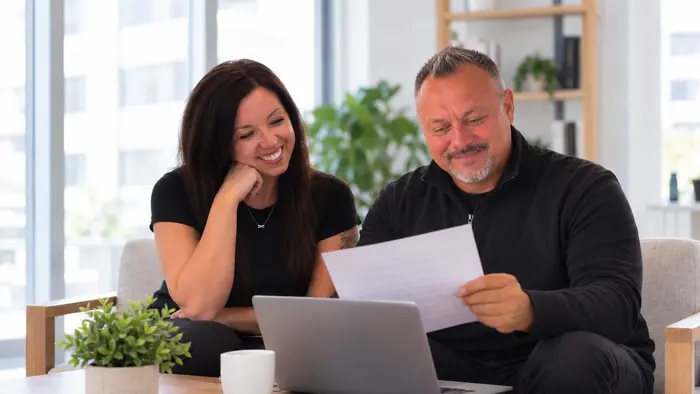
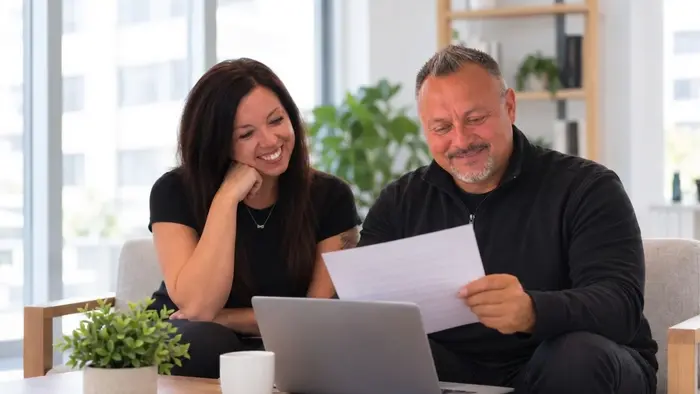
New picture 2, sized to match picture 3
- Replace client meeting photo (16:9, 700/1100/1365px; drop the 1600px files)
- Both feature photos share .feature-photo--narrow: max 788px wide,
  centered, so pictures 2 and 3 render at the same size and ratio
- Bump CSS/JS version to 20261008b and photo version to 20261008d

Claude-Session: https://claude.ai/code/session_01LULKfrfoqBWvdotWMRfoLK

diff --git a/index.html b/index.html
@@ -32,7 +32,7 @@
   <link rel="stylesheet" href="https://fonts.googleapis.com/css2?family=Cormorant+Garamond:wght@600;700&display=swap">
 
   <link rel="preload" as="image" href="assets/nate.webp?v=20261008" type="image/webp">
-  <link rel="stylesheet" href="css/styles.css?v=20261008">
+  <link rel="stylesheet" href="css/styles.css?v=20261008b">
 
   <!-- Structured data for search engines -->
   <script type="application/ld+json">
@@ -232,16 +232,16 @@
     <!-- 5. Tabs: About / Coverage / Service Area -->
     <section class="section section-mist" id="about" aria-labelledby="learn-title">
       <div class="container">
-        <figure class="feature-photo">
+        <figure class="feature-photo feature-photo--narrow">
           <picture>
             <source type="image/webp"
-                    srcset="assets/client-meeting-700.webp?v=20261008c 700w, assets/client-meeting-1100.webp?v=20261008c 1100w, assets/client-meeting-1600.webp?v=20261008c 1600w"
-                    sizes="(min-width: 1120px) 1088px, calc(100vw - 32px)">
-            <img src="assets/client-meeting-1100.jpg?v=20261008c"
-                 srcset="assets/client-meeting-700.jpg?v=20261008c 700w, assets/client-meeting-1100.jpg?v=20261008c 1100w, assets/client-meeting-1600.jpg?v=20261008c 1600w"
-                 sizes="(min-width: 1120px) 1088px, calc(100vw - 32px)"
+                    srcset="assets/client-meeting-700.webp?v=20261008d 700w, assets/client-meeting-1100.webp?v=20261008d 1100w, assets/client-meeting-1365.webp?v=20261008d 1365w"
+                    sizes="(min-width: 820px) 788px, calc(100vw - 32px)">
+            <img src="assets/client-meeting-1100.jpg?v=20261008d"
+                 srcset="assets/client-meeting-700.jpg?v=20261008d 700w, assets/client-meeting-1100.jpg?v=20261008d 1100w, assets/client-meeting-1365.jpg?v=20261008d 1365w"
+                 sizes="(min-width: 820px) 788px, calc(100vw - 32px)"
                  alt="Nate Hall smiling as he goes over paperwork with a client"
-                 width="1600" height="900" loading="lazy" decoding="async">
+                 width="1365" height="768" loading="lazy" decoding="async">
           </picture>
         </figure>
 
@@ -411,7 +411,7 @@
     <!-- 8. FAQ -->
     <section class="section" id="faq" aria-labelledby="faq-title">
       <div class="container container-narrow">
-        <figure class="feature-photo">
+        <figure class="feature-photo feature-photo--narrow">
           <picture>
             <source type="image/webp"
                     srcset="assets/kitchen-table-700.webp?v=20261008 700w, assets/kitchen-table-967.webp?v=20261008 967w"
@@ -634,6 +634,6 @@
     <a class="btn btn-outline-light" href="#contact">Free Quote</a>
   </div>
 
-  <script src="js/main.js?v=20261008" defer></script>
+  <script src="js/main.js?v=20261008b" defer></script>
 </body>
 </html>

diff --git a/css/styles.css b/css/styles.css
@@ -415,6 +415,8 @@ input[aria-invalid="true"] { border-color: #a3320b; }
 }
 .feature-photo img { width: 100%; height: auto; aspect-ratio: 16 / 9; object-fit: cover; }
 @media (min-width: 768px) { .feature-photo { margin-bottom: 56px; } }
+/* Both feature photos share the FAQ column width (820px container minus 16px gutters), centered */
+.feature-photo--narrow { max-width: 788px; margin-left: auto; margin-right: auto; }
 @media (min-width: 768px) {
   .footer-inner { grid-template-columns: 1fr auto; align-items: center; }
 }

diff --git a/privacy.html b/privacy.html
@@ -11,7 +11,7 @@
   <link rel="preconnect" href="https://fonts.googleapis.com">
   <link rel="preconnect" href="https://fonts.gstatic.com" crossorigin>
   <link rel="stylesheet" href="https://fonts.googleapis.com/css2?family=Cormorant+Garamond:wght@600;700&display=swap">
-  <link rel="stylesheet" href="css/styles.css?v=20261008">
+  <link rel="stylesheet" href="css/styles.css?v=20261008b">
 </head>
 <body class="page-privacy">
   <a class="skip-link" href="#main">Skip to main content</a>

diff --git a/thanks.html b/thanks.html
@@ -12,7 +12,7 @@
   <link rel="preconnect" href="https://fonts.googleapis.com">
   <link rel="preconnect" href="https://fonts.gstatic.com" crossorigin>
   <link rel="stylesheet" href="https://fonts.googleapis.com/css2?family=Cormorant+Garamond:wght@600;700&display=swap">
-  <link rel="stylesheet" href="css/styles.css?v=20261008">
+  <link rel="stylesheet" href="css/styles.css?v=20261008b">
 </head>
 <body class="page-privacy">
   <a class="skip-link" href="#main">Skip to main content</a>

diff --git a/CLAUDE.md b/CLAUDE.md
@@ -85,11 +85,12 @@ Form checkbox values (must match `$allowed` in `contact.php`): `Life insurance`,
   It was rendered from an HTML template with Playwright (Chromium is at `/opt/pw-browsers/chromium` in
   cloud sessions); regenerate it whenever the photo, states, or products change.
 - `assets/logo.png`, `logo-sm.*`, `favicon.png`, `apple-touch-icon.png` come from Nate's shield logo.
-- `assets/client-meeting-{700,1100,1600}.{webp,jpg}`: photo of Nate going over paperwork with a client, shown
-  full-width above the "Get to Know Me" heading (`.feature-photo`, lazy-loaded, responsive `srcset`).
-  Its URLs carry `?v=YYYYMMDD` as well — bump it when the photo changes. Cropped to 16:9 (1600×900 max).
+- `assets/client-meeting-{700,1100,1365}.{webp,jpg}`: photo of Nate going over paperwork with a client, shown
+  above the "Get to Know Me" heading (`.feature-photo.feature-photo--narrow`, lazy-loaded, responsive `srcset`).
+  Its URLs carry `?v=YYYYMMDD` as well — bump it when the photo changes. Cropped to 16:9.
+  Owner asked for it to match picture 3: same 16:9 ratio and same width (max 788px, centered).
 - `assets/kitchen-table-{700,967}.{webp,jpg}`: photo of Nate with a couple at a kitchen table, shown above the
-  "Common Questions" heading inside the FAQ's narrow container (same `.feature-photo` style, versioned URLs).
+  "Common Questions" heading inside the FAQ's narrow container (same `.feature-photo.feature-photo--narrow` style, versioned URLs).
   The original is only 975px wide, which is why it sits in the narrower FAQ column instead of full width.
 
 ## Cache-busting (important)
